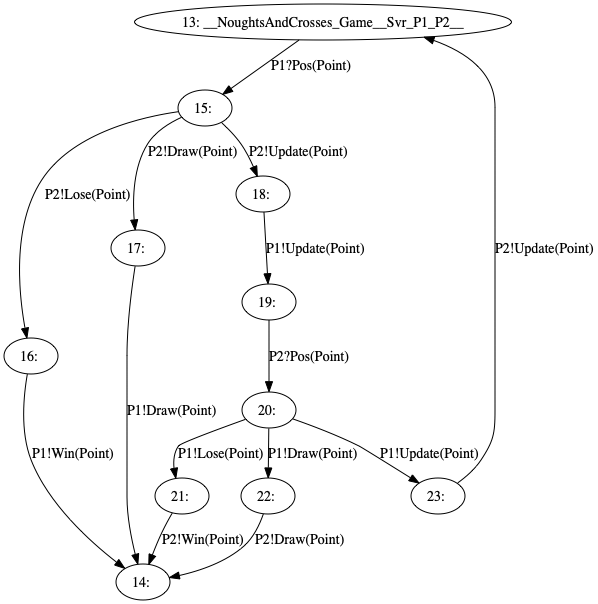
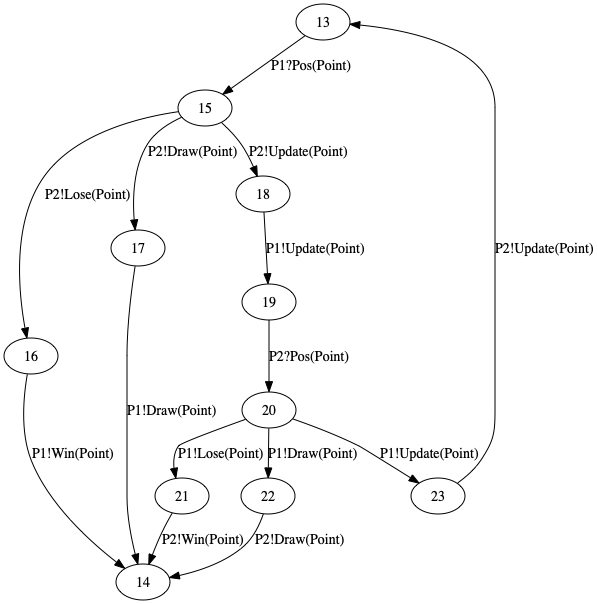
Prettify the figures

diff --git a/PLACES_2020/encoding.tex b/PLACES_2020/encoding.tex
@@ -20,7 +20,6 @@ Node or on browser? (Correct me if I'm wrong)}
 \am{Not for the case of WebSockets, because only WebSocket clients on browser can initiate connections and only WebSocket Server on Node can accept; will make this distinction clear.}
 
 \subsection{Server-side API generation}
-\fz{Could you remove the state names in figures?}
 \label{section:server}
 
 \begin{wrapfigure}{r}{0.5\textwidth}
